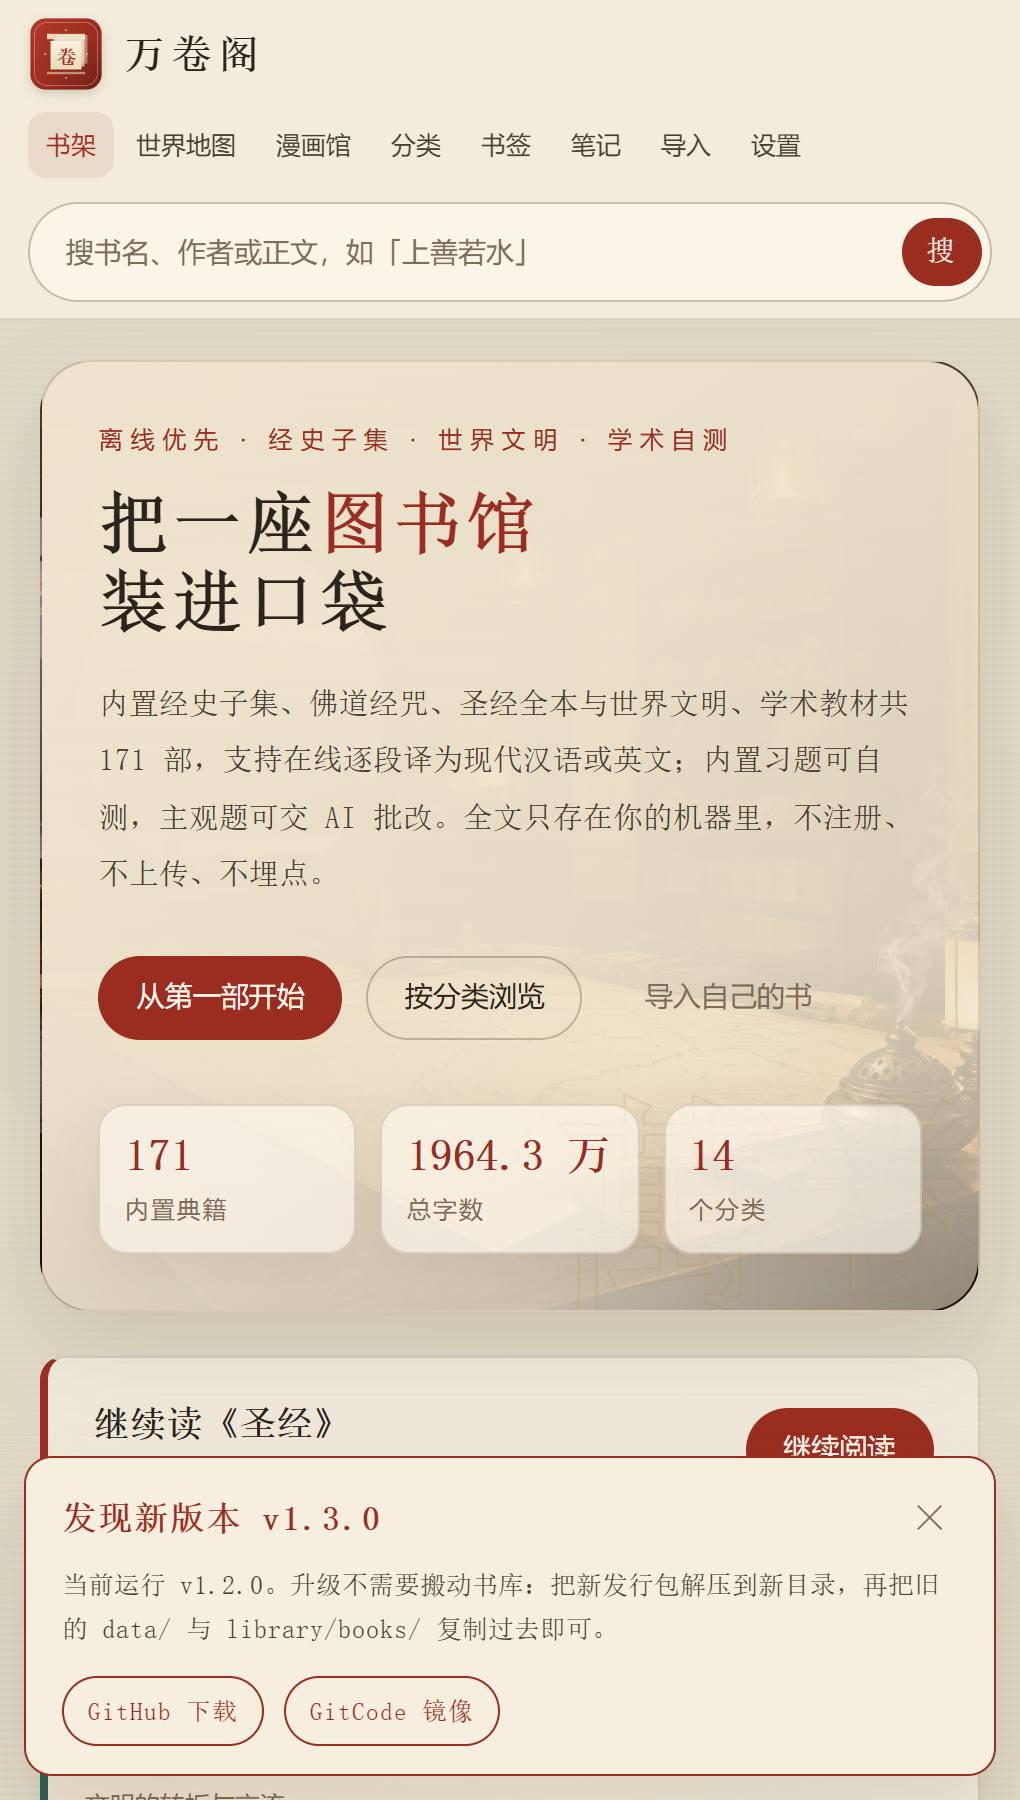
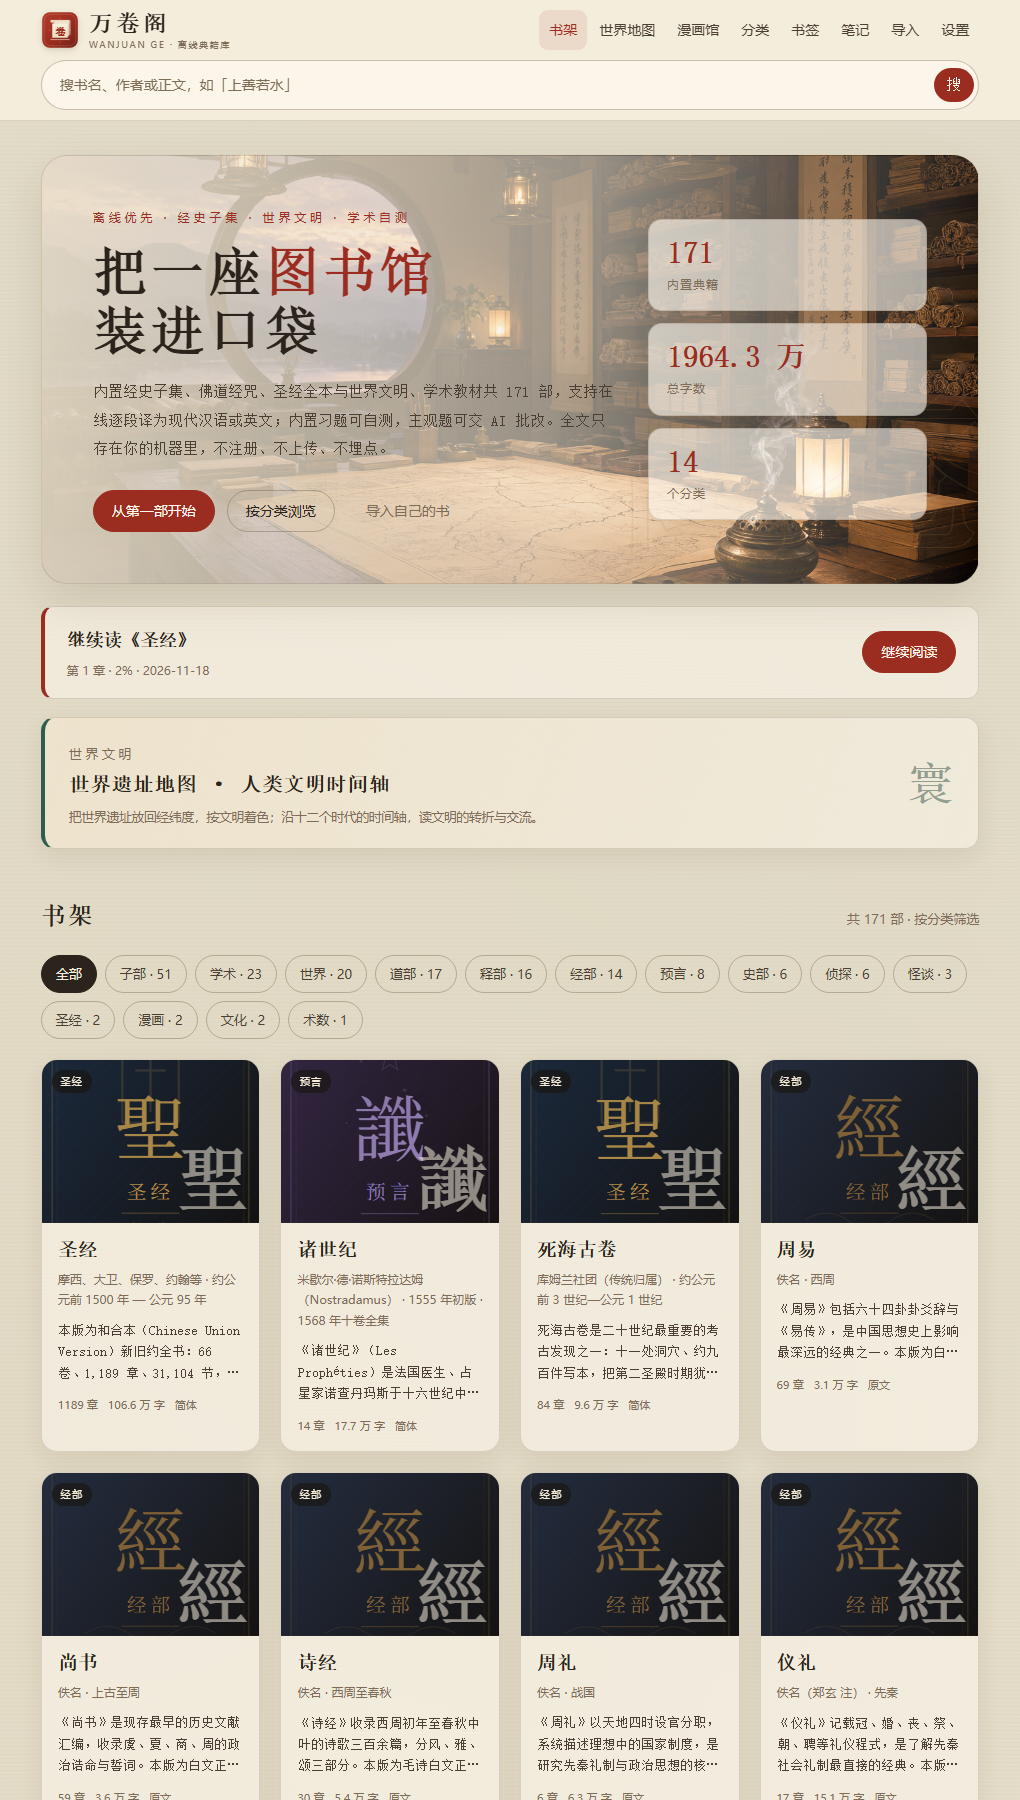
docs: retake update-notice illustration without update popup

diff --git a/docs/manual.html b/docs/manual.html
@@ -411,8 +411,8 @@
           </ul>
           <p><b>新版本提示：</b>每次打开页面，本机服务会向 GitHub 读取一次公开的最新 Release 标签（接口 <code>/api/update</code>，缓存 30 分钟）。发现更高版本时，右下角出现提示卡，附 GitHub 与 GitCode 的下载地址；请求不包含书库、设置或 API Key，GitHub 不可达时不显示。关闭提示只在这台浏览器记住该版本。旧版程序文件被替换后，照常保留 <code>data/</code> 与 <code>library/books/</code> 即可继续阅读。</p>
           <figure>
-            <img src="/images/manual/update-notice.png" alt="新版本提示卡：显示发现新版本、当前版本，以及 GitHub 与 GitCode 下载链接">
-            <figcaption>发现更高版本时，右下角出现提示卡；书库与阅读进度不受影响。</figcaption>
+            <img src="/images/manual/update-notice.png" alt="正常打开时的首页：没有检测到更高版本，页面不出现提示卡，书库与继续阅读正常显示">
+            <figcaption>正常打开时的首页：只有发现更高版本才会在右下角出现提示卡；书库与阅读进度不受影响。</figcaption>
           </figure>
 
           <h3>2.12 安装故障对照</h3>
